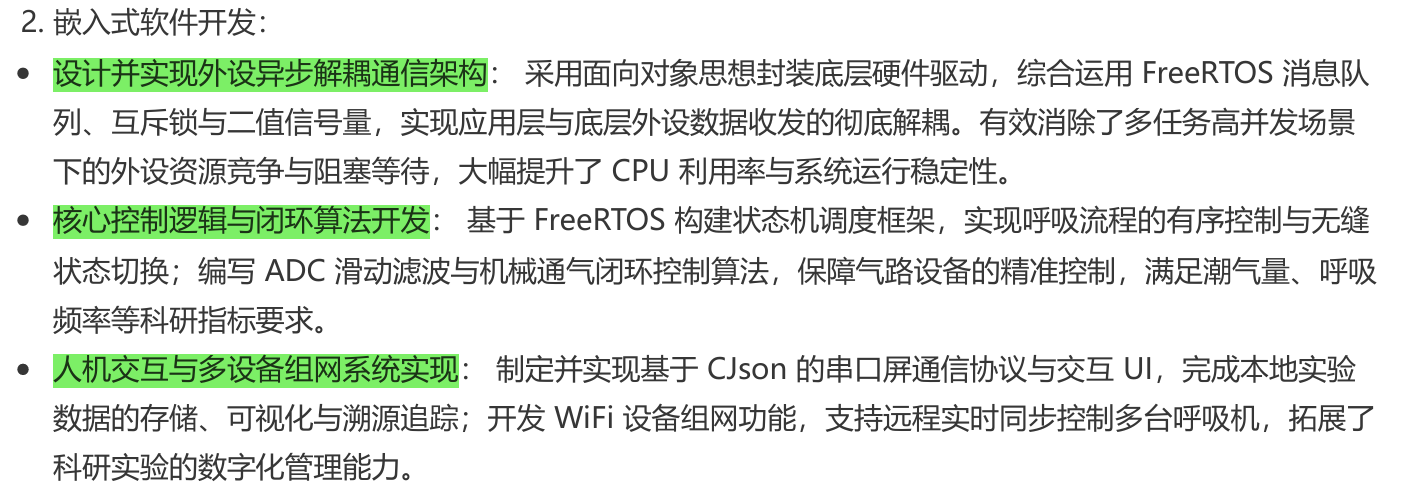
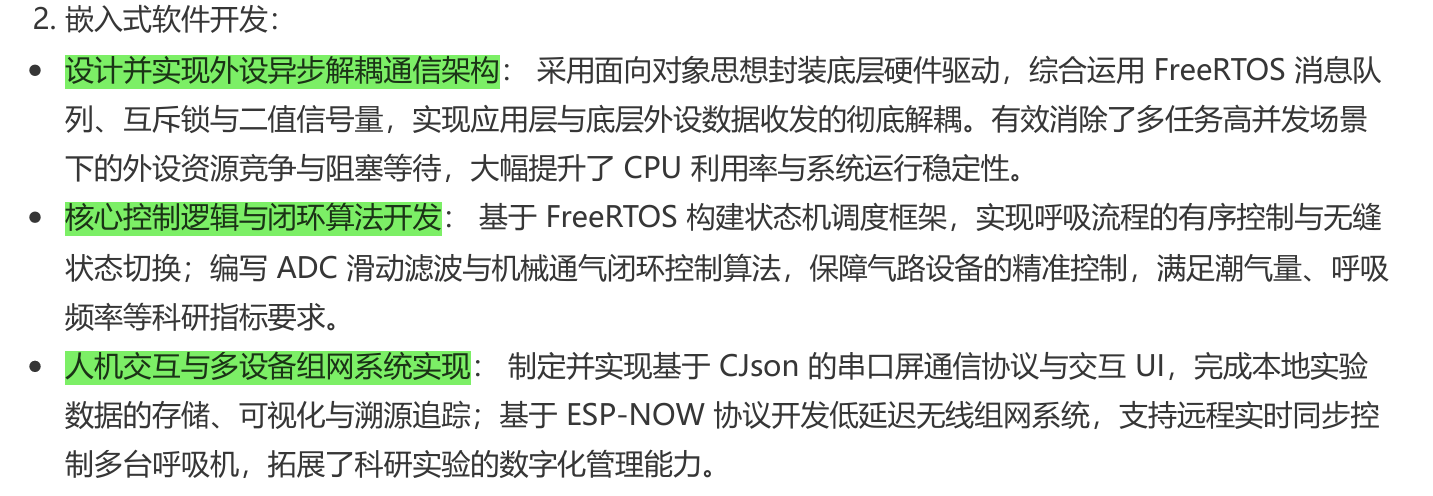
Site updated: 2026-04-16 09:15:20

diff --git a/2026/04/09/小动物呼吸机/index.html b/2026/04/09/小动物呼吸机/index.html
@@ -319,19 +319,19 @@ mjx-container[display="true"] + br {
             <div class="post-head-meta-center">
         
                 
-                    <span>最近更新：2026-04-12</span> 
+                    <span>最近更新：2026-04-14</span> 
                 
                 
                     
                         &nbsp; | &nbsp;
                     
-                     <span>字数总计：1.1k</span>
+                     <span>字数总计：2.6k</span>
                 
                 
                     
                         &nbsp; | &nbsp;
                     
-                    <span>阅读估时：4分钟</span>
+                    <span>阅读估时：10分钟</span>
                 
                 
                     
@@ -381,6 +381,8 @@ mjx-container[display="true"] + br {
 </center>
 <h4 id="外设异步解耦通信架构">1.外设异步解耦通信架构</h4>
 <p><a href="https://stocks-yuan.github.io/2025/11/11/%E5%9F%BA%E4%BA%8EFreeRTOS%E7%9A%84STM32%E5%BC%82%E6%AD%A5%E8%A7%A3%E8%80%A6%E9%80%9A%E4%BF%A1%E6%9C%BA%E5%88%B6%E8%AE%BE%E8%AE%A1%E4%B8%8E%E5%AE%9E%E7%8E%B0%E2%80%94%E2%80%94%E4%BB%A5UART-DMA%E5%8F%91%E9%80%81%E4%B8%BA%E4%BE%8B/">外设异步解耦通信架构</a></p>
+<p>通过消息队列、二值信号量、互斥量管理，实现高效可靠的外设数据传输。<strong>做到了各业务线程只管申请发送数据而不用等，外设线程自动排队发出数据包，业务层和底层驱动随时可以替换，系统运行效率更高。</strong></p>
+<h4 id="核心控制逻辑与闭环控制算法开发">2.核心控制逻辑与闭环控制算法开发</h4>
 <ol type="1">
 <li>基于 FreeRTOS 构建状态机调度框架，实现呼吸流程的有序控制与状态切换
 <strong>代码实现情况：已实现</strong></li>
@@ -396,20 +398,6 @@ mjx-container[display="true"] + br {
 <li><strong>呼吸流程控制</strong>：在 <code>Src/main_control.c</code> 的宏观任务和硬件定时器回调函数（<code>Timer1CallBack</code> 和 <code>Timer2CallBack</code>）中，系统根据设定的吸气/呼气比例（<code>breathe_rate1</code> / <code>breathe_rate2</code>）和呼吸频率参数，有序地切换气动阀门组（GPIO 25, 26, 27）的电平状态，实现了高精度的吸气和呼气周期循环。</li>
 </ul>
 <ol start="2" type="1">
-<li><p>开发 WiFi 组网功能，支持远程同步控制多台设备
-<strong>代码实现情况：当前代码版本中未包含</strong></p></li>
-<li><p>实现离线数据存储、串口屏 CJson 通信协议与 UI 交互
-<strong>代码实现情况：部分实现（完成了 CJson 通信与 UI 交互，缺少离线存储）</strong></p></li>
-</ol>
-<ul>
-<li><strong>CJson 与串口屏通信</strong>：在 <code>Src/UART_task.c</code> 中，系统初始化了两个硬件串口（波特率 115200）。接收到串口屏发来的数据后，底层通过自定义的环形缓冲区（Ring Buffer，500 字节大小）进行数据缓冲，防止丢包，随后调用 <code>cJSON_Parse</code> 库对指令进行解析。
-<ul>
-<li><strong>参数配置</strong>：解析出的 JSON 字段（如 <code>{event, objid, type, val, vvs1}</code>）被用于实时更新呼吸机的运行参数（如潮气量、呼吸频率、吸呼比等）。</li>
-<li><strong>UI 数据可视化</strong>：系统会定时将采集到的气道压力、温湿度等数据，按照串口屏幕认可的绘图指令格式转化为字符串，通过 <code>uart_write_bytes</code> 发送回屏幕（例如发送 <code>add s0.id</code> 类似的指令绘制呼吸波形）。</li>
-</ul></li>
-<li><strong>离线数据存储</strong>：</li>
-</ul>
-<ol start="4" type="1">
 <li>编写 ADC 滑动滤波与机械通气闭环控制算法
 <strong>代码实现情况：已实现</strong></li>
 </ol>
@@ -422,6 +410,59 @@ mjx-container[display="true"] + br {
 <li><strong>潮气量控制算法</strong>：通过函数 <code>get_motor_duty(float flow)</code>，利用线性公式拟合（<code>duty = ((-50 * flow + 85) * 255) / 100</code>）将期望的气体流量（潮气量）转换为目标占空比进行输出。配合前述的高精度气动阀门控制，满足了科研设备 0.001-5mL 的微小潮气量标准。</li>
 </ul></li>
 </ul>
+<h4 id="人机交互与多设备组网系统实现">3.人机交互与多设备组网系统实现</h4>
+<ol type="1">
+<li>串口屏 CJson 通信协议与 UI 交互
+<strong>代码实现情况：部分实现</strong></li>
+</ol>
+<ul>
+<li><strong>CJson 与串口屏通信</strong>：在 <code>Src/UART_task.c</code> 中，系统初始化了两个硬件串口（波特率 115200）。接收到串口屏发来的数据后，底层通过自定义的环形缓冲区（Ring Buffer，500 字节大小）进行数据缓冲，防止丢包，随后调用 <code>cJSON_Parse</code> 库对指令进行解析。
+<ul>
+<li><strong>参数配置</strong>：解析出的 JSON 字段（如 <code>{event, objid, type, val, vvs1}</code>）被用于实时更新呼吸机的运行参数（如潮气量、呼吸频率、吸呼比等）。</li>
+<li><strong>UI 数据可视化</strong>：系统会定时将采集到的气道压力、温湿度等数据，按照串口屏幕认可的绘图指令格式转化为字符串，通过 <code>uart_write_bytes</code> 发送回屏幕（例如发送 <code>add s0.id</code> 类似的指令绘制呼吸波形）。</li>
+</ul></li>
+</ul>
+<p>JSON（JavaScript Object Notation）六种基本数据类型:
+</p><figure class="highlight json"><table><tbody><tr><td class="gutter"><pre><span class="line">1</span><br><span class="line">2</span><br><span class="line">3</span><br><span class="line">4</span><br><span class="line">5</span><br><span class="line">6</span><br><span class="line">7</span><br><span class="line">8</span><br><span class="line">9</span><br><span class="line">10</span><br><span class="line">11</span><br><span class="line">12</span><br><span class="line">13</span><br><span class="line">14</span><br><span class="line">15</span><br><span class="line">16</span><br><span class="line">17</span><br><span class="line">18</span><br><span class="line">19</span><br><span class="line">20</span><br><span class="line">21</span><br><span class="line">22</span><br><span class="line">23</span><br><span class="line">24</span><br><span class="line">25</span><br><span class="line">26</span><br><span class="line">27</span><br><span class="line">28</span><br><span class="line">29</span><br><span class="line">30</span><br></pre></td><td class="code"><pre><span class="line"><span class="punctuation">{</span></span><br><span class="line">  <span class="comment">// 1. 字符串（必须用双引号）</span></span><br><span class="line">  <span class="attr">"name"</span><span class="punctuation">:</span> <span class="string">"ESP32-S3"</span><span class="punctuation">,</span></span><br><span class="line">  <span class="attr">"description"</span><span class="punctuation">:</span> <span class="string">"A powerful IoT chip"</span><span class="punctuation">,</span></span><br><span class="line">  </span><br><span class="line">  <span class="comment">// 2. 数字（整数或浮点数）</span></span><br><span class="line">  <span class="attr">"cores"</span><span class="punctuation">:</span> <span class="number">2</span><span class="punctuation">,</span></span><br><span class="line">  <span class="attr">"frequency"</span><span class="punctuation">:</span> <span class="number">240.0</span><span class="punctuation">,</span></span><br><span class="line">  <span class="attr">"temperature"</span><span class="punctuation">:</span> <span class="number">36.5</span><span class="punctuation">,</span></span><br><span class="line">  </span><br><span class="line">  <span class="comment">// 3. 布尔值</span></span><br><span class="line">  <span class="attr">"wifi_enabled"</span><span class="punctuation">:</span> <span class="literal"><span class="keyword">true</span></span><span class="punctuation">,</span></span><br><span class="line">  <span class="attr">"deep_sleep"</span><span class="punctuation">:</span> <span class="literal"><span class="keyword">false</span></span><span class="punctuation">,</span></span><br><span class="line">  </span><br><span class="line">  <span class="comment">// 4. 空值</span></span><br><span class="line">  <span class="attr">"reserved"</span><span class="punctuation">:</span> <span class="literal"><span class="keyword">null</span></span><span class="punctuation">,</span></span><br><span class="line">  </span><br><span class="line">  <span class="comment">// 5. 数组（有序列表）</span></span><br><span class="line">  <span class="attr">"pins"</span><span class="punctuation">:</span> <span class="punctuation">[</span><span class="number">4</span><span class="punctuation">,</span> <span class="number">5</span><span class="punctuation">,</span> <span class="number">18</span><span class="punctuation">,</span> <span class="number">19</span><span class="punctuation">,</span> <span class="number">23</span><span class="punctuation">]</span><span class="punctuation">,</span></span><br><span class="line">  <span class="attr">"protocols"</span><span class="punctuation">:</span> <span class="punctuation">[</span><span class="string">"MQTT"</span><span class="punctuation">,</span> <span class="string">"HTTP"</span><span class="punctuation">,</span> <span class="string">"WebSocket"</span><span class="punctuation">,</span> <span class="string">"CoAP"</span><span class="punctuation">]</span><span class="punctuation">,</span></span><br><span class="line">  <span class="attr">"mixed_array"</span><span class="punctuation">:</span> <span class="punctuation">[</span><span class="number">1</span><span class="punctuation">,</span> <span class="string">"text"</span><span class="punctuation">,</span> <span class="literal"><span class="keyword">true</span></span><span class="punctuation">,</span> <span class="literal"><span class="keyword">null</span></span><span class="punctuation">]</span><span class="punctuation">,</span></span><br><span class="line">  </span><br><span class="line">  <span class="comment">// 6. 对象（键值对集合）</span></span><br><span class="line">  <span class="attr">"gpio_config"</span><span class="punctuation">:</span> <span class="punctuation">{</span></span><br><span class="line">    <span class="attr">"tx_pin"</span><span class="punctuation">:</span> <span class="number">17</span><span class="punctuation">,</span></span><br><span class="line">    <span class="attr">"rx_pin"</span><span class="punctuation">:</span> <span class="number">16</span><span class="punctuation">,</span></span><br><span class="line">    <span class="attr">"mode"</span><span class="punctuation">:</span> <span class="string">"uart"</span><span class="punctuation">,</span></span><br><span class="line">    <span class="attr">"pullup"</span><span class="punctuation">:</span> <span class="literal"><span class="keyword">true</span></span></span><br><span class="line">  <span class="punctuation">}</span></span><br><span class="line"><span class="punctuation">}</span></span><br></pre></td></tr></tbody></table></figure><p></p>
+<p>JSON基本语法规则:
+</p><figure class="highlight json"><table><tbody><tr><td class="gutter"><pre><span class="line">1</span><br><span class="line">2</span><br><span class="line">3</span><br><span class="line">4</span><br><span class="line">5</span><br><span class="line">6</span><br><span class="line">7</span><br><span class="line">8</span><br><span class="line">9</span><br><span class="line">10</span><br><span class="line">11</span><br><span class="line">12</span><br><span class="line">13</span><br><span class="line">14</span><br><span class="line">15</span><br><span class="line">16</span><br><span class="line">17</span><br></pre></td><td class="code"><pre><span class="line"><span class="punctuation">{</span></span><br><span class="line">  <span class="comment">// 规则1: 键必须是字符串，用双引号包裹</span></span><br><span class="line">  <span class="attr">"valid_key"</span><span class="punctuation">:</span> <span class="string">"value"</span><span class="punctuation">,</span></span><br><span class="line">  <span class="comment">// invalid_key: "value"  // 错误：键缺少双引号</span></span><br><span class="line">  </span><br><span class="line">  <span class="comment">// 规则2: 值可以是六种类型之一</span></span><br><span class="line">  <span class="attr">"string_value"</span><span class="punctuation">:</span> <span class="string">"Hello World"</span><span class="punctuation">,</span></span><br><span class="line">  <span class="attr">"number_value"</span><span class="punctuation">:</span> <span class="number">42</span><span class="punctuation">,</span></span><br><span class="line">  <span class="attr">"boolean_value"</span><span class="punctuation">:</span> <span class="literal"><span class="keyword">false</span></span><span class="punctuation">,</span></span><br><span class="line">  <span class="attr">"null_value"</span><span class="punctuation">:</span> <span class="literal"><span class="keyword">null</span></span><span class="punctuation">,</span></span><br><span class="line">  <span class="attr">"array_value"</span><span class="punctuation">:</span> <span class="punctuation">[</span><span class="number">1</span><span class="punctuation">,</span> <span class="number">2</span><span class="punctuation">,</span> <span class="number">3</span><span class="punctuation">]</span><span class="punctuation">,</span></span><br><span class="line">  <span class="attr">"object_value"</span><span class="punctuation">:</span> <span class="punctuation">{</span><span class="attr">"key"</span><span class="punctuation">:</span> <span class="string">"value"</span><span class="punctuation">}</span><span class="punctuation">,</span></span><br><span class="line">  </span><br><span class="line">  <span class="comment">// 规则3: 最后一个元素后不能有逗号</span></span><br><span class="line">  <span class="attr">"correct"</span><span class="punctuation">:</span> <span class="string">"没有尾逗号"</span></span><br><span class="line">  <span class="comment">// "wrong": "有尾逗号",  // 错误：不应有尾逗号</span></span><br><span class="line"><span class="punctuation">}</span></span><br></pre></td></tr></tbody></table></figure><p></p>
+<ol start="2" type="1">
+<li>实现离线数据存储</li>
+</ol>
+<center>
+<a href="ESP32文件系统基本框架.png" class="gallery-item" style="box-shadow: none;"> <img src="ESP32文件系统基本框架.png" width="60%"></a>
+</center>
+<p>利用 ESP32-S3 原生的 USB OTG 外设 配合 USB Host MSC (Mass Storage Class) 驱动来实现将实验数据以 CSV 格式保存到 U盘 等外部存储器。</p>
+<p><strong>初始化 USB Host 和 MSC 驱动并挂载 U盘:</strong>
+</p><figure class="highlight c++"><table><tbody><tr><td class="gutter"><pre><span class="line">1</span><br><span class="line">2</span><br><span class="line">3</span><br><span class="line">4</span><br><span class="line">5</span><br><span class="line">6</span><br><span class="line">7</span><br><span class="line">8</span><br><span class="line">9</span><br><span class="line">10</span><br><span class="line">11</span><br><span class="line">12</span><br><span class="line">13</span><br><span class="line">14</span><br><span class="line">15</span><br><span class="line">16</span><br><span class="line">17</span><br><span class="line">18</span><br><span class="line">19</span><br><span class="line">20</span><br><span class="line">21</span><br><span class="line">22</span><br><span class="line">23</span><br><span class="line">24</span><br><span class="line">25</span><br><span class="line">26</span><br><span class="line">27</span><br><span class="line">28</span><br><span class="line">29</span><br><span class="line">30</span><br></pre></td><td class="code"><pre><span class="line"><span class="meta">#<span class="keyword">include</span> <span class="string">"usb/usb_host.h"</span></span></span><br><span class="line"><span class="meta">#<span class="keyword">include</span> <span class="string">"usb/msc_host.h"</span></span></span><br><span class="line"><span class="meta">#<span class="keyword">include</span> <span class="string">"usb/msc_host_vfs.h"</span></span></span><br><span class="line"><span class="meta">#<span class="keyword">include</span> <span class="string">"esp_vfs_fat.h"</span></span></span><br><span class="line"></span><br><span class="line"><span class="comment">// 挂载点路径</span></span><br><span class="line"><span class="meta">#<span class="keyword">define</span> BASE_PATH <span class="string">"/usb"</span></span></span><br><span class="line"></span><br><span class="line"><span class="function"><span class="type">void</span> <span class="title">usb_msc_init</span><span class="params">()</span> </span>{</span><br><span class="line">    <span class="comment">// 1. 初始化 USB Host 底层栈</span></span><br><span class="line">    <span class="type">const</span> <span class="type">usb_host_config_t</span> host_config = {</span><br><span class="line">        .skip_phy_setup = <span class="literal">false</span>,</span><br><span class="line">        .intr_flags = ESP_INTR_FLAG_LEVEL1,</span><br><span class="line">    };</span><br><span class="line">    <span class="built_in">usb_host_install</span>(&amp;host_config);</span><br><span class="line"></span><br><span class="line">    <span class="comment">// 2. 初始化 MSC 类驱动</span></span><br><span class="line">    <span class="type">const</span> <span class="type">esp_vfs_msc_config_t</span> msc_config = {</span><br><span class="line">        .vfs_prefix = BASE_PATH,      <span class="comment">// 挂载路径</span></span><br><span class="line">        .max_files = <span class="number">5</span>,               <span class="comment">// 最多同时打开的文件数</span></span><br><span class="line">    };</span><br><span class="line">    </span><br><span class="line">    <span class="comment">// 安装 MSC VFS 驱动并挂载 (此函数内部会自动处理 U盘插入、初始化和 FATFS 挂载)</span></span><br><span class="line">    <span class="type">esp_err_t</span> err = <span class="built_in">esp_vfs_msc_register</span>(&amp;msc_config);</span><br><span class="line">    <span class="keyword">if</span> (err == ESP_OK) {</span><br><span class="line">        <span class="built_in">printf</span>(<span class="string">"U盘挂载成功！路径: %s\n"</span>, BASE_PATH);</span><br><span class="line">    } <span class="keyword">else</span> {</span><br><span class="line">        <span class="built_in">printf</span>(<span class="string">"U盘挂载失败\n"</span>);</span><br><span class="line">    }</span><br><span class="line">}</span><br></pre></td></tr></tbody></table></figure><p></p>
+<p><strong>应用层 CSV 数据写入逻辑:</strong>
+当做机械通气闭环控制（如 Breathe_Control_Task）时，可以创建一个队列或者专门的数据记录任务，将实时压力、潮气量等科研指标附加到 CSV 文件末尾。</p>
+<figure class="highlight c++"><table><tbody><tr><td class="gutter"><pre><span class="line">1</span><br><span class="line">2</span><br><span class="line">3</span><br><span class="line">4</span><br><span class="line">5</span><br><span class="line">6</span><br><span class="line">7</span><br><span class="line">8</span><br><span class="line">9</span><br><span class="line">10</span><br><span class="line">11</span><br><span class="line">12</span><br><span class="line">13</span><br><span class="line">14</span><br><span class="line">15</span><br><span class="line">16</span><br><span class="line">17</span><br><span class="line">18</span><br><span class="line">19</span><br><span class="line">20</span><br><span class="line">21</span><br><span class="line">22</span><br><span class="line">23</span><br><span class="line">24</span><br><span class="line">25</span><br><span class="line">26</span><br><span class="line">27</span><br><span class="line">28</span><br><span class="line">29</span><br><span class="line">30</span><br><span class="line">31</span><br><span class="line">32</span><br></pre></td><td class="code"><pre><span class="line"><span class="meta">#<span class="keyword">include</span> <span class="string">&lt;stdio.h&gt;</span></span></span><br><span class="line"><span class="meta">#<span class="keyword">include</span> <span class="string">&lt;sys/stat.h&gt;</span></span></span><br><span class="line"></span><br><span class="line"><span class="function"><span class="type">void</span> <span class="title">save_data_to_csv</span><span class="params">(<span class="type">uint32_t</span> timestamp, <span class="type">float</span> pressure, <span class="type">float</span> flow, <span class="type">float</span> volume)</span> </span>{</span><br><span class="line">    <span class="comment">// 检查 U盘是否在线（可以通过查看挂载路径是否存在）</span></span><br><span class="line">    <span class="keyword">struct</span> <span class="title class_">stat</span> st;</span><br><span class="line">    <span class="keyword">if</span> (<span class="built_in">stat</span>(BASE_PATH, &amp;st) != <span class="number">0</span>) {</span><br><span class="line">        <span class="built_in">printf</span>(<span class="string">"U盘未就绪，无法写入\n"</span>);</span><br><span class="line">        <span class="keyword">return</span>;</span><br><span class="line">    }</span><br><span class="line"></span><br><span class="line">    <span class="comment">// 以追加模式(a)打开或创建 CSV 文件</span></span><br><span class="line">    FILE *f = <span class="built_in">fopen</span>(BASE_PATH <span class="string">"/vent_data.csv"</span>, <span class="string">"a"</span>);</span><br><span class="line">    <span class="keyword">if</span> (f == <span class="literal">NULL</span>) {</span><br><span class="line">        <span class="built_in">printf</span>(<span class="string">"无法打开 CSV 文件\n"</span>);</span><br><span class="line">        <span class="keyword">return</span>;</span><br><span class="line">    }</span><br><span class="line"></span><br><span class="line">    <span class="comment">// 获取文件大小，如果是新文件（0字节），先写入 CSV 文件的表头</span></span><br><span class="line">    <span class="built_in">fseek</span>(f, <span class="number">0</span>, SEEK_END);</span><br><span class="line">    <span class="keyword">if</span> (<span class="built_in">ftell</span>(f) == <span class="number">0</span>) {</span><br><span class="line">        <span class="built_in">fprintf</span>(f, <span class="string">"Timestamp(ms),Pressure(cmH2O),Flow(L/min),Volume(mL)\n"</span>);</span><br><span class="line">    }</span><br><span class="line"></span><br><span class="line">    <span class="comment">// 写入一行实验数据</span></span><br><span class="line">    <span class="built_in">fprintf</span>(f, <span class="string">"%lu,%.2f,%.2f,%.2f\n"</span>, timestamp, pressure, flow, volume);</span><br><span class="line">    </span><br><span class="line">    <span class="comment">// 如果对数据安全性要求高（断电不丢数据），可以调用 fsync 将缓冲区数据强制刷入 U盘</span></span><br><span class="line">    <span class="comment">// fsync(fileno(f)); </span></span><br><span class="line">    </span><br><span class="line">    <span class="built_in">fclose</span>(f);</span><br><span class="line">}</span><br></pre></td></tr></tbody></table></figure>
+<ol start="2" type="1">
+<li>开发 ESP-NOW 无线通信功能，支持远程同步控制多台设备</li>
+</ol>
+<p>ESP-NOW 是乐鑫开发的一种基于无连接的 Wi-Fi 通信协议（工作在数据链路层）；ESP-NOW 不需要连接路由器，上电即连，延迟极低（仅几毫秒），非常适合医疗科研设备的同步控制。</p>
+<p><strong>与传统 Wi-Fi 对比:</strong></p>
+<p>ESP-NOW 是基于数据链路层的无线通信协议，它将五层 OSI 上层协议精简为一层，数据传输时无需依次经过网络层、传输层、会话层、表示层、应用层等复杂的层级，也无需层层增加包头和解包，大大缓解了网络拥挤时因为丢包而导致的卡顿和延迟，拥有更高的响应速度。</p>
+<center>
+<a href="model-zh.png" class="gallery-item" style="box-shadow: none;"> <img src="model-zh.png" width="80%"></a>
+</center>
+<figure class="highlight plaintext"><table><tbody><tr><td class="gutter"><pre><span class="line">1</span><br><span class="line">2</span><br><span class="line">3</span><br><span class="line">4</span><br><span class="line">5</span><br><span class="line">6</span><br><span class="line">7</span><br><span class="line">8</span><br><span class="line">9</span><br><span class="line">10</span><br><span class="line">11</span><br><span class="line">12</span><br><span class="line">13</span><br><span class="line">14</span><br><span class="line">15</span><br><span class="line">16</span><br><span class="line">17</span><br><span class="line">18</span><br></pre></td><td class="code"><pre><span class="line">传统 Wi-Fi (TCP/IP 连接)</span><br><span class="line">设备A ─────────── 连接建立 ───────────→ 设备B</span><br><span class="line">      │ 1. 探测请求/响应 │</span><br><span class="line">      │ 2. 认证请求/响应 │ (4次握手)</span><br><span class="line">      │ 3. 关联请求/响应 │</span><br><span class="line">      │ 4. DHCP获取IP   │</span><br><span class="line">      └───────────────┘</span><br><span class="line">        (耗时: 数百毫秒到数秒)</span><br><span class="line">        </span><br><span class="line">        ↓</span><br><span class="line">     数据通信开始</span><br><span class="line"></span><br><span class="line">ESP-NOW (无连接)</span><br><span class="line">设备A ──────────────┐</span><br><span class="line">      ↓             ↓</span><br><span class="line">   数据直接发送 → 设备B</span><br><span class="line">      (无需握手)</span><br><span class="line">        (耗时: &lt; 10ms)</span><br></pre></td></tr></tbody></table></figure>
+<p><strong>实现代码对比：</strong>
+</p><figure class="highlight c++"><table><tbody><tr><td class="gutter"><pre><span class="line">1</span><br><span class="line">2</span><br><span class="line">3</span><br><span class="line">4</span><br><span class="line">5</span><br><span class="line">6</span><br><span class="line">7</span><br><span class="line">8</span><br><span class="line">9</span><br><span class="line">10</span><br><span class="line">11</span><br><span class="line">12</span><br><span class="line">13</span><br><span class="line">14</span><br><span class="line">15</span><br><span class="line">16</span><br><span class="line">17</span><br><span class="line">18</span><br><span class="line">19</span><br><span class="line">20</span><br><span class="line">21</span><br><span class="line">22</span><br><span class="line">23</span><br><span class="line">24</span><br><span class="line">25</span><br><span class="line">26</span><br><span class="line">27</span><br><span class="line">28</span><br><span class="line">29</span><br><span class="line">30</span><br><span class="line">31</span><br><span class="line">32</span><br><span class="line">33</span><br><span class="line">34</span><br></pre></td><td class="code"><pre><span class="line"><span class="comment">// 传统 Wi-Fi TCP 连接示例</span></span><br><span class="line"><span class="function"><span class="type">void</span> <span class="title">wifi_tcp_communication</span><span class="params">()</span> </span>{</span><br><span class="line">    <span class="comment">// 1. 连接到 AP (耗时 ~2-5秒)</span></span><br><span class="line">    <span class="type">wifi_config_t</span> wifi_config = {...};</span><br><span class="line">    <span class="built_in">esp_wifi_set_config</span>(WIFI_IF_STA, &amp;wifi_config);</span><br><span class="line">    <span class="built_in">esp_wifi_connect</span>();  <span class="comment">// 等待连接完成</span></span><br><span class="line">    </span><br><span class="line">    <span class="comment">// 2. 获取 IP 地址 (DHCP, 耗时 ~1-3秒)</span></span><br><span class="line">    <span class="comment">// 等待 IP_EVENT_STA_GOT_IP 事件</span></span><br><span class="line">    </span><br><span class="line">    <span class="comment">// 3. 建立 TCP 连接 (耗时 ~100-500ms)</span></span><br><span class="line">    <span class="type">int</span> sock = <span class="built_in">socket</span>(AF_INET, SOCK_STREAM, <span class="number">0</span>);</span><br><span class="line">    <span class="built_in">connect</span>(sock, &amp;server_addr, <span class="built_in">sizeof</span>(server_addr));</span><br><span class="line">    </span><br><span class="line">    <span class="comment">// 4. 现在可以发送数据了</span></span><br><span class="line">    <span class="comment">// 总耗时: 3-8秒</span></span><br><span class="line">    <span class="built_in">send</span>(sock, data, len, <span class="number">0</span>);</span><br><span class="line">}</span><br><span class="line"></span><br><span class="line"><span class="comment">// ESP-NOW 通信示例</span></span><br><span class="line"><span class="function"><span class="type">void</span> <span class="title">espnow_communication</span><span class="params">()</span> </span>{</span><br><span class="line">    <span class="comment">// 1. 初始化 ESP-NOW (一次性)</span></span><br><span class="line">    <span class="built_in">esp_now_init</span>();  <span class="comment">// 耗时 ~100ms</span></span><br><span class="line">    </span><br><span class="line">    <span class="comment">// 2. 添加对等设备 (一次性配置)</span></span><br><span class="line">    <span class="type">esp_now_peer_info_t</span> peer = {...};</span><br><span class="line">    <span class="built_in">esp_now_add_peer</span>(&amp;peer);  <span class="comment">// 耗时 ~10ms</span></span><br><span class="line">    </span><br><span class="line">    <span class="comment">// 3. 直接发送数据</span></span><br><span class="line">    <span class="comment">// 每次发送都无需握手</span></span><br><span class="line">    <span class="built_in">esp_now_send</span>(peer_addr, data, len);  <span class="comment">// 耗时 &lt; 10ms</span></span><br><span class="line">    <span class="comment">// 总耗时: 从初始化到首次发送 ~110ms</span></span><br><span class="line">    <span class="comment">// 后续每次发送: &lt; 10ms</span></span><br><span class="line">}</span><br></pre></td></tr></tbody></table></figure><p></p>
+<p><strong>系统通信回路架构：</strong>
+上位机 &lt;-&gt; USB &lt;-&gt; ESP32 接收器 (网关) &lt;-&gt; ESP-NOW (2.4GHz) &lt;-&gt; 呼吸机 ESP32</p>
+<p><strong>软件实现方案：</strong></p>
+<ol type="1">
+<li><p>初始化 Wi-Fi 与 ESP-NOW
+</p><figure class="highlight c++"><table><tbody><tr><td class="gutter"><pre><span class="line">1</span><br><span class="line">2</span><br><span class="line">3</span><br><span class="line">4</span><br><span class="line">5</span><br><span class="line">6</span><br><span class="line">7</span><br><span class="line">8</span><br><span class="line">9</span><br><span class="line">10</span><br><span class="line">11</span><br><span class="line">12</span><br><span class="line">13</span><br></pre></td><td class="code"><pre><span class="line"></span><br><span class="line"><span class="meta">#<span class="keyword">include</span> <span class="string">"esp_wifi.h"</span></span></span><br><span class="line"><span class="meta">#<span class="keyword">include</span> <span class="string">"esp_now.h"</span></span></span><br><span class="line"></span><br><span class="line"><span class="function"><span class="type">void</span> <span class="title">wifi_init_for_espnow</span><span class="params">(<span class="type">void</span>)</span> </span>{</span><br><span class="line">    <span class="built_in">ESP_ERROR_CHECK</span>(<span class="built_in">esp_netif_init</span>());</span><br><span class="line">    <span class="built_in">ESP_ERROR_CHECK</span>(<span class="built_in">esp_event_loop_create_default</span>());</span><br><span class="line">    <span class="type">wifi_init_config_t</span> cfg = <span class="built_in">WIFI_INIT_CONFIG_DEFAULT</span>();</span><br><span class="line">    <span class="built_in">ESP_ERROR_CHECK</span>(<span class="built_in">esp_wifi_init</span>(&amp;cfg));</span><br><span class="line">    <span class="built_in">ESP_ERROR_CHECK</span>(<span class="built_in">esp_wifi_set_storage</span>(WIFI_STORAGE_RAM));</span><br><span class="line">    <span class="built_in">ESP_ERROR_CHECK</span>(<span class="built_in">esp_wifi_set_mode</span>(WIFI_MODE_STA));</span><br><span class="line">    <span class="built_in">ESP_ERROR_CHECK</span>(<span class="built_in">esp_wifi_start</span>());</span><br><span class="line">}</span><br></pre></td></tr></tbody></table></figure><p></p></li>
+<li><p>注册 ESP-NOW 回调并配对</p></li>
+</ol>
+<figure class="highlight c++"><table><tbody><tr><td class="gutter"><pre><span class="line">1</span><br><span class="line">2</span><br><span class="line">3</span><br><span class="line">4</span><br><span class="line">5</span><br><span class="line">6</span><br><span class="line">7</span><br><span class="line">8</span><br><span class="line">9</span><br><span class="line">10</span><br><span class="line">11</span><br><span class="line">12</span><br><span class="line">13</span><br><span class="line">14</span><br><span class="line">15</span><br><span class="line">16</span><br><span class="line">17</span><br><span class="line">18</span><br><span class="line">19</span><br><span class="line">20</span><br></pre></td><td class="code"><pre><span class="line"><span class="comment">// 接收回调函数</span></span><br><span class="line"><span class="function"><span class="type">void</span> <span class="title">on_esp_now_receive</span><span class="params">(<span class="type">const</span> <span class="type">uint8_t</span> *mac_addr, <span class="type">const</span> <span class="type">uint8_t</span> *data, <span class="type">int</span> data_len)</span> </span>{</span><br><span class="line">    <span class="comment">// 收到电脑端 Dongle 发来的指令！</span></span><br><span class="line">    <span class="comment">// 假设发来的是 JSON 字符串，直接将其放入你之前的环形缓冲区或队列中</span></span><br><span class="line">    <span class="comment">// 通知 UART_task 或 Breathe_Control_Task 进行解析：</span></span><br><span class="line">    <span class="comment">// cJSON_Parse((char*)data);</span></span><br><span class="line">}</span><br><span class="line"></span><br><span class="line"><span class="function"><span class="type">void</span> <span class="title">esp_now_setup</span><span class="params">(<span class="type">void</span>)</span> </span>{</span><br><span class="line">    <span class="built_in">ESP_ERROR_CHECK</span>(<span class="built_in">esp_now_init</span>());</span><br><span class="line">    <span class="comment">// 注册接收回调</span></span><br><span class="line">    <span class="built_in">esp_now_register_recv_cb</span>(on_esp_now_receive);</span><br><span class="line">    </span><br><span class="line">    <span class="comment">// 如果需要设备向电脑发数据，还要添加电脑端 Dongle 的 MAC 地址作为 Peer</span></span><br><span class="line">    <span class="type">esp_now_peer_info_t</span> peerInfo = {};</span><br><span class="line">    <span class="built_in">memcpy</span>(peerInfo.peer_addr, PC_DONGLE_MAC, <span class="number">6</span>); <span class="comment">// 填入电脑端 Dongle 的 MAC 地址</span></span><br><span class="line">    peerInfo.channel = <span class="number">1</span>; <span class="comment">// 需两端信道保持一致</span></span><br><span class="line">    peerInfo.encrypt = <span class="literal">false</span>;</span><br><span class="line">    <span class="built_in">esp_now_add_peer</span>(&amp;peerInfo);</span><br><span class="line">}</span><br></pre></td></tr></tbody></table></figure>
+<ol start="3" type="1">
+<li>数据发送逻辑 (呼吸机 -&gt; PC)</li>
+</ol>
+<figure class="highlight c++"><table><tbody><tr><td class="gutter"><pre><span class="line">1</span><br><span class="line">2</span><br><span class="line">3</span><br><span class="line">4</span><br></pre></td><td class="code"><pre><span class="line"><span class="function"><span class="type">void</span> <span class="title">send_data_to_pc</span><span class="params">(<span class="type">char</span> *json_str)</span> </span>{</span><br><span class="line">    <span class="comment">// 调用此函数即可将数据通过 2.4GHz 发给插在笔记本上的接收器</span></span><br><span class="line">    <span class="built_in">esp_now_send</span>(PC_DONGLE_MAC, (<span class="type">uint8_t</span> *)json_str, <span class="built_in">strlen</span>(json_str));</span><br><span class="line">}</span><br></pre></td></tr></tbody></table></figure>
 </div>
     </div>
 

diff --git a/2025/11/11/基于FreeRTOS的STM32异步解耦通信机制设计与实现——以UART-DMA发送为例/index.html b/2025/11/11/基于FreeRTOS的STM32异步解耦通信机制设计与实现——以UART-DMA发送为例/index.html
@@ -207,7 +207,7 @@
             <div class="post-head-meta-center">
         
                 
-                    <span>最近更新：2026-04-12</span> 
+                    <span>最近更新：2026-04-13</span> 
                 
                 
                     
@@ -245,11 +245,11 @@
 <li><p>多任务竞争引发数据损坏</p></li>
 <li><p>高耦合性使得代码难以维护和扩展</p></li>
 </ul>
-<p>本文以STM32H7的UART DMA通信为例，提出一种基于FreeRTOS的<strong>异步解耦通信框架</strong>，通过消息队列、二值信号量、互斥量管理，实现高效可靠的外设数据传输。<strong>做到了各业务线程只管发数据而不用等，外设线程自动排队发出数据包，业务层和底层驱动随时可以替换，系统运行效率更高。</strong></p>
+<p>本文以STM32H7的UART DMA通信为例，提出一种基于FreeRTOS的<strong>异步解耦通信框架</strong>，通过消息队列、二值信号量、互斥量管理，实现高效可靠的外设数据传输。<strong>做到了各业务线程只管申请发送数据而不用等，外设线程自动排队发出数据包，业务层和底层驱动随时可以替换，系统运行效率更高。</strong></p>
 <p>技术点：</p>
 <ul>
 <li><p>解耦（面向对象）：通过 C 语言结构体与函数指针（如 UART_DEVICE_T）封装底层，向应用层暴露标准 API。</p></li>
-<li><p>异步（IPC机制）：使用消息队列分离<strong>业务层数据请求</strong>与 <strong>底层DMA 实际发送</strong>，使用<strong>二值信号量同步发送任务与 DMA 中断</strong>，使用<strong>互斥量保护外设公共资源 UART_DATA_T</strong>。</p></li>
+<li><p>异步（IPC机制）：使用消息队列分离<strong>业务层数据发送请求</strong>与 <strong>底层外设实际发送</strong>，使用<strong>二值信号量同步发送任务与 DMA 中断</strong>，使用<strong>互斥量保护外设公共资源 UART_DATA_T</strong>。</p></li>
 </ul>
 <h2 id="二解耦机制设计">二、解耦机制设计</h2>
 <h4 id="封装外设对象">2.1 封装外设对象</h4>

diff --git a/recent-updates/index.html b/recent-updates/index.html
@@ -202,7 +202,7 @@
         
             
             <li>
-              <span class="archive-date">&nbsp;&nbsp;&nbsp;2026/04/12 
+              <span class="archive-date">&nbsp;&nbsp;&nbsp;2026/04/14 
               </span>
               <div class="archive-main">
                 
@@ -216,7 +216,7 @@
         
             
             <li>
-              <span class="archive-date">&nbsp;&nbsp;&nbsp;2026/04/12 
+              <span class="archive-date">&nbsp;&nbsp;&nbsp;2026/04/13 
               </span>
               <div class="archive-main">
                 

diff --git a/index.html b/index.html
@@ -326,7 +326,7 @@ mjx-container[display="true"] + br {
 
     <div class="footer-last-without-line">
         
-        <span>本站总字数：61.2k</span>
+        <span>本站总字数：62.7k</span>
         
         
             <div class="footer-last-span-right">
